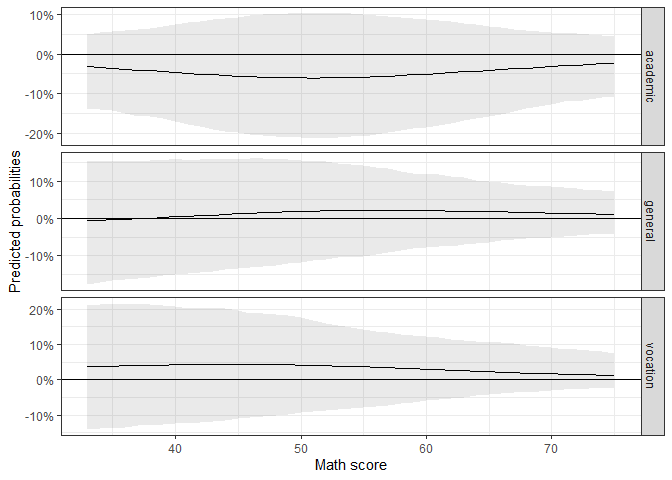
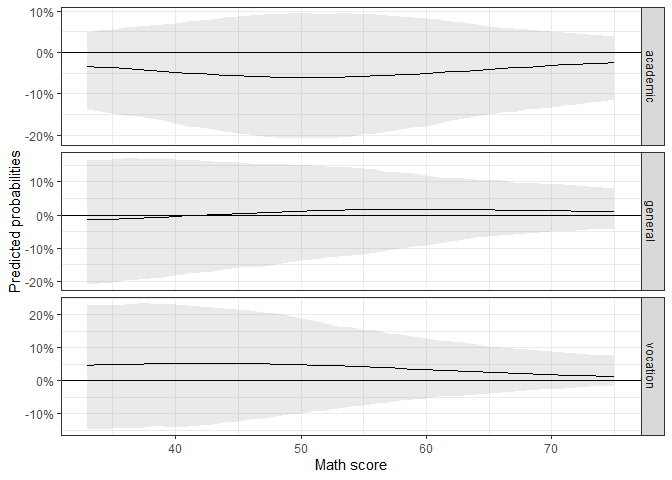
Reviewed README and vignette

diff --git a/README.md b/README.md
@@ -11,46 +11,25 @@ before using sample data to demonstrate the functions of the package.
 
 ## The multinomial logit model
 
-This is a short introduction in the theoretical and statistical
-background of the multinomial logit.
+For the statistical and theoretical background of the multinomial logit
+regression please refer to the vignette or sources like [these lecture
+notes by Germán
+Rodríguez](https://data.princeton.edu/wws509/notes/c6s2).
 
-Dependent variables can not necessarily be ordered. In political
-science, for example, the variable of interest is often the individual’s
-vote choice, based on the set of parties that are presented. Of interest
-is then, how somebody comes up with their choice.
+Due to the inconvenience of integrating math equations in the README
+file, this is not the place to write comprehensively about it.
 
-More generally spoken, many questions deal with a nominal outcome
-variable and we want to test assumptions about the function that may
-lead to a respective outcome.
+These are the important characteristics of the model: \* The multinomial
+logit regression is used to model nominal outcomes. It provides the
+opportunity to assign specific choices a probability based on a set of
+independent variables. \* The model needs an assigned baseline category
+to be indentifiable. All other choices are evaluated in contrast to this
+reference. \* The model returns a set of coefficients for each choice
+category. \* Like all logit models, the multinomial logit model returns
+logg-ods which are difficult to interpret in terms of effect sizes and
+uncertainties.
 
-For these questions, the multinomial logit model is often a fitting
-option. Similar to an ordinary logit model, the multinomial logit model
-assumes that the probability to choose one over the other outcomes can
-be modeled with a linear function and a fitting logit link function. The
-difference of the multinomial logit is that it models the choice of
-*each* category as a function of the characteristics of the observation.
-
-In formal terms, we assume \[\Pr(y_i = j|X_i)\] is a linear combination
-of \[X_i\beta_j\], whereby \[\beta_j\] is a choice specific vector. This
-means we are interested in the probability that the observed choice of
-the individual \[i\] \[y_i\] choice is the choice category \[j\]
-dependent on characteristics of the observation \[X_i\]. Therefore we
-estimate a choice specific vector \(\beta_j\). Since the probability is
-restricted to be between \[0\] and \[1\], we use \[exp(X_i\beta_j)\] as
-a fitting link function. Additionally, we bring the exponants into
-relationship with each other and normalize them by dividing through the
-sum of them.
-
-Since we cannot compare all choices against each other, the model is
-not-identified so far. Instead, we have to make one choice the baseline
-and fix it to \[0\]. Therefore we estimate the probability of all
-choices to be chosen in comparison to the baseline choice.
-
-Eventually, we end up with the following probability
-function:
-
-\[\Pr(y_i|X_i)= \frac{exp(X_i\beta_j)}{\sum^{J}_{m=1}exp(X_i \beta_m)}\],
-whereby \[\beta_1 = 1\]
+This package helps to interpret the model in meaningful ways.
 
 ## Using the package
 
@@ -249,12 +228,12 @@ pred1$plotdata %>% head()
 #> # A tibble: 6 x 5
 #>    math prog2     mean  lower upper
 #>   <dbl> <fct>    <dbl>  <dbl> <dbl>
-#> 1    33 academic 0.144 0.0501 0.309
-#> 2    34 academic 0.157 0.0584 0.320
-#> 3    35 academic 0.170 0.0678 0.331
-#> 4    36 academic 0.184 0.0787 0.344
-#> 5    37 academic 0.199 0.0910 0.356
-#> 6    38 academic 0.215 0.105  0.368
+#> 1    33 academic 0.148 0.0474 0.318
+#> 2    34 academic 0.160 0.0554 0.331
+#> 3    35 academic 0.173 0.0643 0.344
+#> 4    36 academic 0.187 0.0750 0.357
+#> 5    37 academic 0.202 0.0878 0.369
+#> 6    38 academic 0.218 0.101  0.381
 ```
 
 As we can see, it includes the range of the x variable, a mean, a lower,
@@ -306,12 +285,12 @@ fdif1$plotdata %>% head()
 #> # A tibble: 6 x 5
 #>    math prog2       mean  lower  upper
 #>   <dbl> <fct>      <dbl>  <dbl>  <dbl>
-#> 1    33 academic -0.0318 -0.137 0.0508
-#> 2    34 academic -0.0338 -0.140 0.0559
-#> 3    35 academic -0.0359 -0.143 0.0587
-#> 4    36 academic -0.0380 -0.150 0.0602
-#> 5    37 academic -0.0402 -0.157 0.0614
-#> 6    38 academic -0.0423 -0.159 0.0656
+#> 1    33 academic -0.0333 -0.138 0.0497
+#> 2    34 academic -0.0353 -0.142 0.0526
+#> 3    35 academic -0.0373 -0.147 0.0564
+#> 4    36 academic -0.0394 -0.152 0.0603
+#> 5    37 academic -0.0415 -0.156 0.0627
+#> 6    38 academic -0.0436 -0.160 0.0649
 ```
 
 Since the function calls the `mnl_pred_ova()` function internally, it
